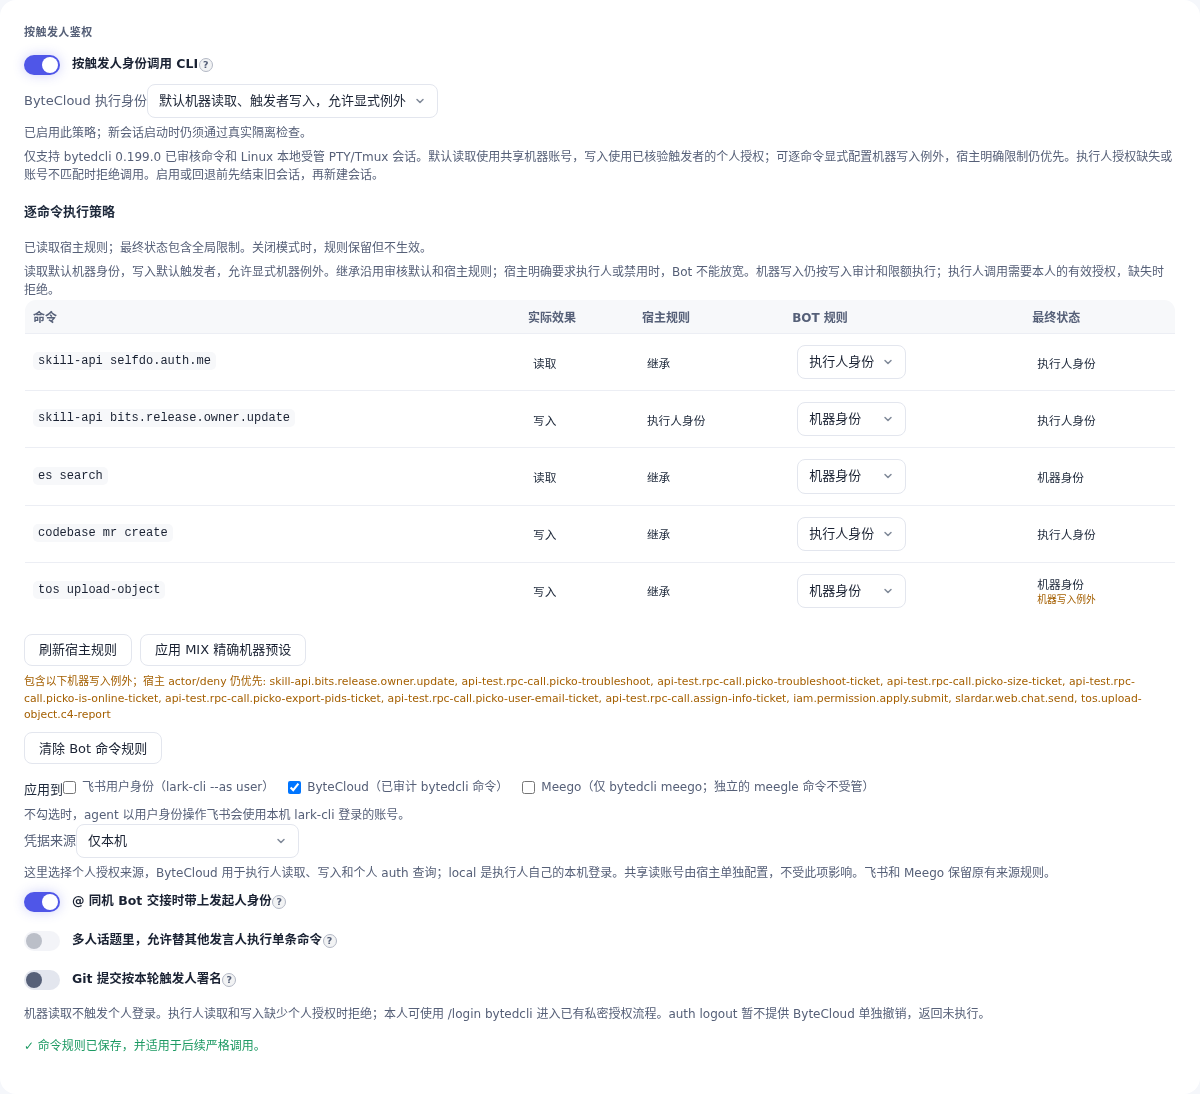
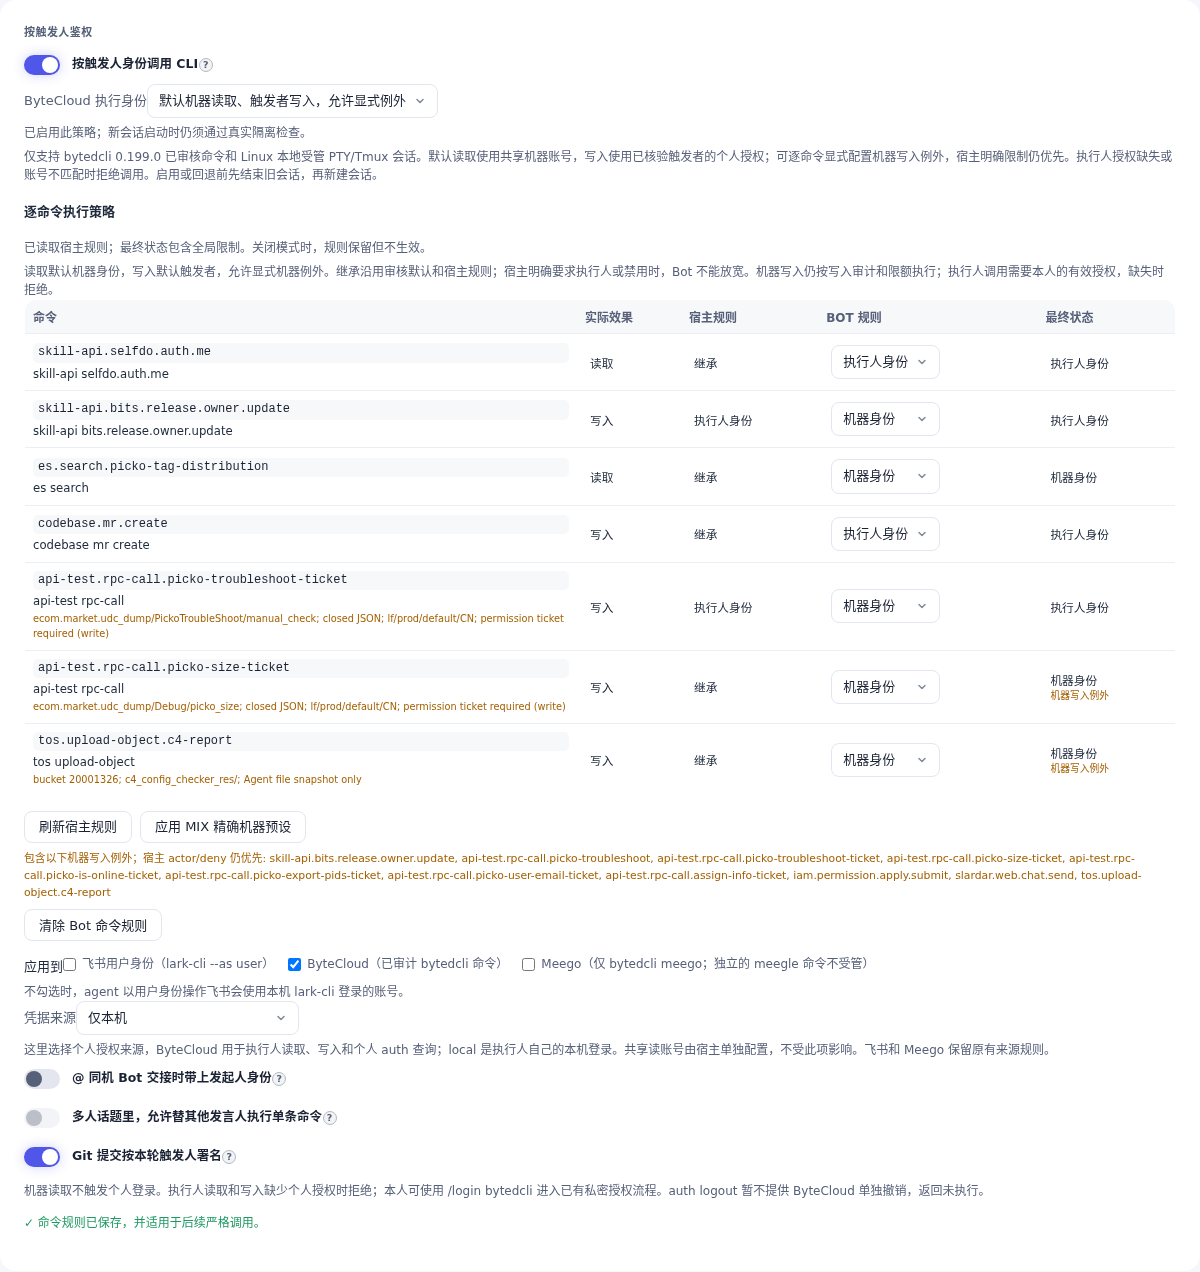
fix(bytedcli): 区分精确规则并校正迁移测试与说明

diff --git a/src/dashboard/web/bot-defaults-page.tsx b/src/dashboard/web/bot-defaults-page.tsx
@@ -5072,6 +5072,7 @@ export function AutoStartControls(props: { bot: BotDefaultsRow; putCardPref(patc
  */
 export function TriggerUserAuthSection(props: { bot: BotDefaultsRow; patchBot: PatchBot }) {
   const tr = useT();
+  const policyTableId = useId();
   const { bot, patchBot } = props;
   const policy = bot.triggerUserAuth ?? null;
   const enabled = policy?.enabled === true;
@@ -5232,12 +5233,18 @@ export function TriggerUserAuthSection(props: { bot: BotDefaultsRow; patchBot: P
               <th key={column} style={{ padding: '8px' }}>{tr(`botDefaults.bytedcliPolicy${column}`)}</th>)}</tr></thead>
             <tbody>{BYTEDCLI_OPERATION_CATALOG.filter(row => row.effect === 'read' || row.effect === 'write').map(row => {
               const effective = policyState === 'ready' ? resolveBytedcliOperationRule(row.id, globalPolicy, policy?.bytedcliOperationPolicy ?? undefined) : undefined;
+              const conditionId = `${policyTableId}-${row.id}-condition`;
               return <tr key={row.id} style={{ borderTop: '1px solid var(--border)' }}>
-                <td style={{ padding: '8px' }}><code>{row.path.join(' ')}</code></td>
+                <td style={{ padding: '8px', width: '48%', whiteSpace: 'normal', overflowWrap: 'anywhere' }}>
+                  <code style={{ display: 'block', whiteSpace: 'normal' }}>{row.id}</code>
+                  <span style={{ display: 'block', marginTop: '4px' }}>{row.path.join(' ')}</span>
+                  {row.condition ? <small id={conditionId} style={{ display: 'block', marginTop: '4px', lineHeight: 1.5 }}>{row.condition}</small> : null}
+                </td>
                 <td data-action={`bytedcli-effect-${row.id}`} data-effect={row.effect}>{tr(`botDefaults.bytedcliPolicyEffect.${row.effect}`)}</td>
                 <td>{policyState === 'ready' ? tr(`botDefaults.bytedcliPolicyRule.${globalPolicy?.rules[row.id] ?? 'inherit'}`) : '—'}</td>
                 <td><select data-action={`bytedcli-policy-${row.id}`} value={policy?.bytedcliOperationPolicy?.rules[row.id] ?? ''}
-                  disabled={busy || policyState !== 'ready'} aria-label={`${tr('botDefaults.bytedcliPolicyOverride')}: ${row.path.join(' ')}`}
+                  disabled={busy || policyState !== 'ready'} aria-label={`${tr('botDefaults.bytedcliPolicyOverride')}: ${row.id}`}
+                  aria-describedby={row.condition ? conditionId : undefined}
                   onChange={event => saveOperationRule(row.id, event.currentTarget.value)}>
                   <option value="">{tr('botDefaults.bytedcliPolicyRule.inherit')}</option>
                   <option value="machine">{tr('botDefaults.bytedcliPolicyRule.machine')}</option>

diff --git a/test/bytedcli-operation-policy-dashboard.test.ts b/test/bytedcli-operation-policy-dashboard.test.ts
@@ -168,3 +168,31 @@ it('applies selected MIX machine preset, preserves full settings and global floo
   expect(p.control('bytedcli-effective-codebase.mr.create').props['data-identity']).toBe('actor');
  }finally{await p.close();}
 });
+
+it('same-path RPC rules have distinct visible and accessible identities and save only the named rule', async()=>{
+ const ids=['api-test.rpc-call.picko-troubleshoot-ticket','api-test.rpc-call.picko-size-ticket'];
+ const initial=parseTriggerUserAuthConfig({...full,allowSpeakerSwitch:false,bytedcliOperationPolicy:config({...full.bytedcliOperationPolicy!.rules,[ids[0]!]: 'actor',[ids[1]!]: 'actor'})})!;
+ const p=await panel(initial,summary(initial,{[ids[0]!]: 'actor'}));
+ const text=(node:any):string=>typeof node==='string'?node:(node.children??[]).map(text).join(' ');
+ try {
+  const controls=ids.map(id=>{
+   const named=p.renderer.root.findAllByType('select').filter(select=>String(select.props['aria-label']??'').includes(id));
+   expect(named).toHaveLength(1);
+   return named[0]!;
+  });
+  expect(controls[0]!.props['aria-label']).not.toBe(controls[1]!.props['aria-label']);
+  for(const [index,control] of controls.entries()){
+   const row=control.parent!.parent!;
+   expect(row.findAllByType('code').map(code=>text(code))).toContain(ids[index]);
+   expect(text(row)).toContain(index===0?'ecom.market.udc_dump/PickoTroubleShoot/manual_check':'ecom.market.udc_dump/Debug/picko_size');
+   expect(text(row)).toContain('permission ticket required (write)');
+   const description=p.renderer.root.findByProps({id:control.props['aria-describedby']});
+   expect(text(description)).toContain(index===0?'manual_check':'picko_size');
+  }
+  await act(async()=>controls[1]!.props.onChange({currentTarget:{value:'machine'}}));
+  expect(p.requests.at(-1).bytedcliOperationPolicy.rules).toEqual({...initial.bytedcliOperationPolicy!.rules,[ids[1]!]: 'machine'});
+  expect(parseTriggerUserAuthConfig(p.requests.at(-1))).toEqual({...initial,bytedcliOperationPolicy:config({...initial.bytedcliOperationPolicy!.rules,[ids[1]!]: 'machine'})});
+  expect(controls[0]!.props.value).toBe('actor');
+  expect(controls[1]!.props.value).toBe('machine');
+ }finally{await p.close();}
+});

diff --git a/test/trigger-user-auth.test.ts b/test/trigger-user-auth.test.ts
@@ -18,6 +18,8 @@ import {
   TRIGGER_USER_AUTH_TOOLS,
   tokenStoreProtection, credentialSourceOf, delegatesOnMention, dispatchOnlyToolsForTurn } from '../src/services/trigger-user-auth.js';
 import { createDashboardTranslator } from '../src/dashboard/web/i18n.js';
+import { BYTEDCLI_AUDITED_RELEASE, BYTEDCLI_OPERATION_CATALOG_VERSION } from '../src/core/bytedcli-operation-catalog.js';
+import { BYTEDCLI_OPERATION_POLICY_SCHEMA } from '../src/core/bytedcli-operation-policy-config.js';
 
 describe('parseTriggerUserAuthConfig', () => {
   it('preserves valid dormant operation rules in disabled and legacy capability modes', () => {
@@ -26,7 +28,10 @@ describe('parseTriggerUserAuthConfig', () => {
     for (const settings of [{ enabled: false }, { enabled: true, bytecloudExecution: 'trigger-user' },
       { enabled: true, capabilities: ['lark-user'] }, { enabled: true, tools: ['bytedcli'] }]) {
       const config = parseTriggerUserAuthConfig({ ...settings, bytedcliOperationPolicy });
-      expect(config).toHaveProperty('bytedcliOperationPolicy', { ...bytedcliOperationPolicy, schema: 'botmux.bytedcli-operation-policy.v2' });
+      expect(config).toHaveProperty('bytedcliOperationPolicy', {
+        schema: BYTEDCLI_OPERATION_POLICY_SCHEMA, cliVersion: BYTEDCLI_AUDITED_RELEASE,
+        catalogVersion: BYTEDCLI_OPERATION_CATALOG_VERSION, rules: bytedcliOperationPolicy.rules,
+      });
       expect(parseTriggerUserAuthConfig(JSON.parse(JSON.stringify(config)))).toEqual(config);
       expect(parseTriggerUserAuthConfig({ ...config, bytedcliOperationPolicy: null }))
         .not.toHaveProperty('bytedcliOperationPolicy');

diff --git a/docs/bytedcli-read-write-identity.md b/docs/bytedcli-read-write-identity.md
@@ -68,7 +68,7 @@ Bot 使用同一种版本化对象，例如：
 
 命令策略摘要由已有 GET `/api/bots/:app/trigger-user-auth-status` 从实际冻结的宿主 reader 投影，返回版本、全局规则及修订、Bot 规则与最终效果/身份。该摘要不查询个人授权、不开始登录、不返回凭据或原始宿主路径；带 `openId` 的既有个人授权状态查询保留原合同。界面用同一审核 resolver 合成当前 Bot 编辑。宿主无兼容版本化状态时显示不可用并禁止保存命令规则，须更新宿主后刷新；全局配置无效时显示明确错误并拒绝严格调用，仍可关闭模式。点击“刷新宿主规则”获取热更新后的展示状态。
 
-![v2 机器写入例外与宿主 actor 限制，真实 Chromium、临时 HOME 和假数据](assets/bytedcli-read-write-identity/machine-write-exceptions.png)
+![规范 ID 与 RPC 匹配条件、机器写入例外和宿主 actor 限制；真实 Chromium 与假数据](assets/bytedcli-read-write-identity/mix-skill-machine-preset.png)
 
 读取改为执行人身份后，仍按读取额度与结果语义处理，不写业务 intent，不产生写入未知结果；但必须有当前已核验真人的个人授权、正式账号匹配及相应委托/定时任务权限。授权缺失或账号不匹配时拒绝，不退回共享账号。auth/help 不属于业务规则，保留专用个人控制边界；help 同样显示当前有效业务策略，不触发个人授权查询。
 
@@ -90,11 +90,13 @@ bytedcli 的只读边界包括祖先 `node_modules` 搜索路径、兄弟/提升
 
 网络只继承宿主冻结的 `HTTP_PROXY`、`HTTPS_PROXY`、`NO_PROXY` 及对应小写变量。审核版本的原生传输不支持 `ALL_PROXY`/`all_proxy`；配置这些变量会明确标记严格宿主不可用，须改成所支持的 HTTP(S) 代理后重建，不能静默忽略路由。`NODE_EXTRA_CA_CERTS`、`SSL_CERT_FILE`、`SSL_CERT_DIR` 的规范路径、软链目标及祖先同样受保护并核验；无法证明的证书布局拒绝严格执行。以上限制不改变其他 CLI 或旧身份模式的网络合同。
 
-严格包装器不导出 ByteCloud token；独立 `codebase` / `bitscli` / `bits-cli`、git askpass 和 `BOTMUX_AS` 拒绝。独立 Meego、Lark 和旧模式保留原有合同；严格 bytedcli 中未登记的 Meego 子命令仍拒绝。
+严格包装器不导出 ByteCloud token；独立 `codebase` / `bitscli` / `bits-cli`、git askpass 和 `BOTMUX_AS` 拒绝。独立 Meego、Lark 和旧模式保留原有合同；严格 bytedcli 中未登记的 Meego 等业务命令可进入下述 unknown/actor 隔离路径，仍须通过身份、参数和执行边界检查。
 
 ## 当前命令目录
 
-只支持审计过的 bytedcli **0.199.0** 与 **CN**。未知版本、命令、选项、区域或参数组合全部拒绝。下表是实现范围，不是候选清单：
+只支持审计过的 bytedcli **0.199.0** 与 **CN**。未知版本或区域拒绝；已登记操作的非法选项、参数组合也拒绝，不能回退来绕过其合同。认证、安装、插件等控制命令不会作为未知业务执行，个人 auth 仅允许下节的专用适配器。
+
+未登记业务使用 `unknown` 效果和触发者身份，在独立文件系统/PID 隔离内执行，并遵守写入级别的 intent 审计、配额、结果未知与重放限制；不能配置为机器身份，也不能注入凭据或身份覆盖。下表是早期已审计目录的子集；新增精确签名见[业务目录合同](bytedcli-business-command-catalog.md)和[受管 Skill 合同](bytedcli-managed-skill-api.md)，未列在此表不等于一律拒绝：
 
 | 类型 | 命令 |
 | --- | --- |
@@ -105,7 +107,7 @@ bytedcli 的只读边界包括祖先 `node_modules` 搜索路径、兄弟/提升
 
 `bytedcli --help` 返回 JSON 命令目录、别名和允许选项；子命令 help 返回对应子集。业务条目还包含当前 `enabled` 和 `executionIdentity` 投影。目录列出审核支持范围，参数仍由严格解析器验证，不能把“某选项在列表里”理解为任意组合都支持。help/version 不运行 native CLI、不读取个人授权；version 输出 `auditedCliVersion`，表示 broker 合同版本，不声称当前宿主安装已经通过探测。实际业务调用会检查可信绝对路径上的 CLI 版本和文件完整性。
 
-MR 操作须显式提供仓库，不从 Agent cwd 推断。`--body-file` / `-F` 与 stdin 在 Agent 侧读取快照，最多 2 MiB，只把字节传到宿主请求私有目录。交互式 PTY、watch、任意 JSON/raw 请求、输出文件、附件、任意 BITS 更新/发布/删除以及未列出的日志命令不支持。argv 上限 256 项 / 64 KiB，HTTP body 上限 3 MiB，合计输出上限 16 MiB，执行默认 60 秒、最大 120 秒；同时每会话最多 4 个读 / 1 个写，daemon 最多 16 次执行 / 4 个写。
+已登记 MR 操作须显式提供仓库，不从 Agent cwd 推断。`--body-file` / `-F` 与 stdin 在 Agent 侧读取快照，最多 2 MiB，只把字节传到宿主请求私有目录。已登记操作的 JSON/body、附件和文件参数只接受各自审核的形态；不能扩展为任意目标或请求。BITS 更新/发布/删除、日志等业务先匹配当前精确目录，未登记的业务按上述 unknown/actor 路径处理，而非因缺席旧表直接拒绝。执行不提供交互式 PTY，长运行调用同样受限。argv 上限 256 项 / 64 KiB，HTTP body 上限 3 MiB，合计输出上限 16 MiB，执行默认 60 秒、最大 120 秒；同时每会话最多 4 个读 / 1 个写，daemon 最多 16 次执行 / 4 个写。
 
 ## 个人授权命令
 

diff --git a/docs/bytedcli-managed-skill-api.md b/docs/bytedcli-managed-skill-api.md
@@ -8,7 +8,7 @@
 
 [完整 JSON](examples/bytedcli-mix-machine-policy.json) 与 Dashboard「应用 MIX 精确机器预设」来自同一纯模块。选定 Picko、release-owner、MIX troubleshooting、C4 的精确签名设为 machine；其他所有已登记业务 read/write 显式 actor，因此已有宿主 machine 也不会把未选写操作提升成机器身份。unknown 仍 actor，不能配置 opaque ID。此场景默认覆盖后，用户仍可单独调整已登记操作的机器例外；宿主明确 actor/deny 始终优先。通用模式本身仍是 read machine / write actor。
 
-Skill 名称仅作来源归档，不能声明权限；同一规范命令被多个 Skill 使用时共享一条规则。Dashboard 在应用前列出全部机器写入例外，并完整保存其他 Bot 配置。截图由真实组件在 Chromium 使用假数据渲染，保留五条代表行，实际保存与宿主上限均已验证；未修改 live 配置。
+Skill 名称仅作来源归档，不能声明权限；同一规范命令被多个 Skill 使用时共享一条规则。Dashboard 在应用前列出全部机器写入例外，并完整保存其他 Bot 配置。截图由真实组件在 Chromium 使用假数据渲染，保留七条代表行（含两个同路径 RPC 的唯一规范 ID 和匹配条件），实际保存与宿主上限均已验证；未修改 live 配置。
 
 ![真实组件假数据验证](assets/bytedcli-read-write-identity/mix-skill-machine-preset.png)
 
